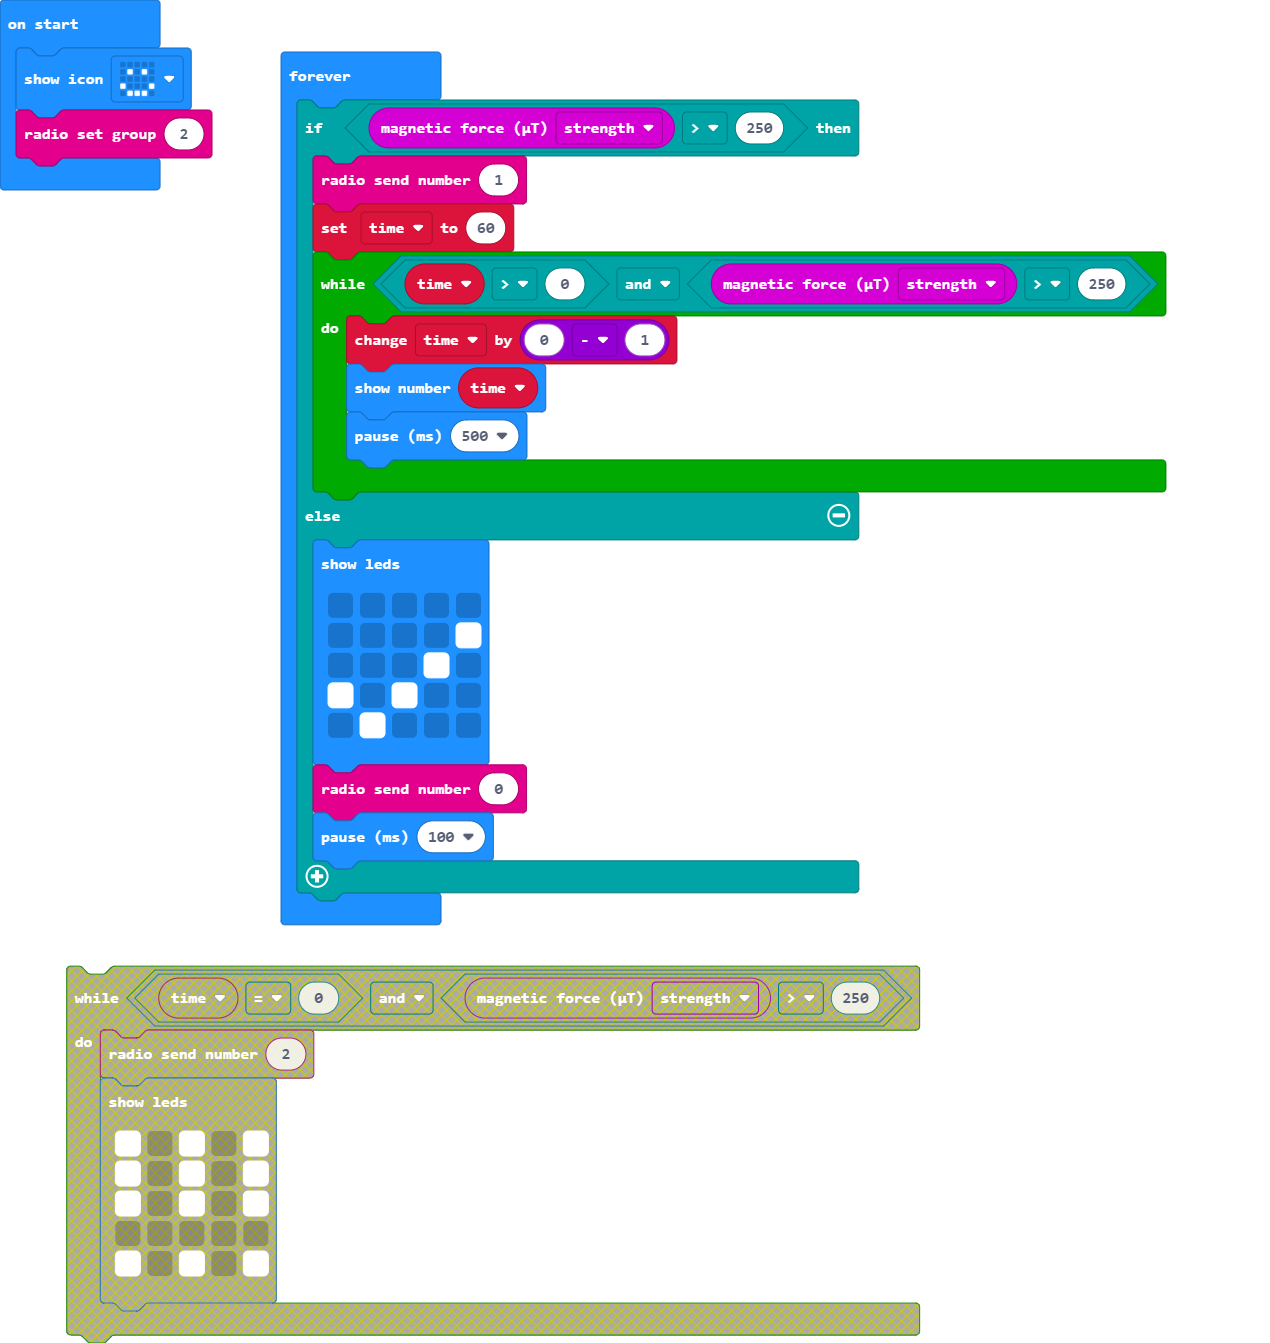
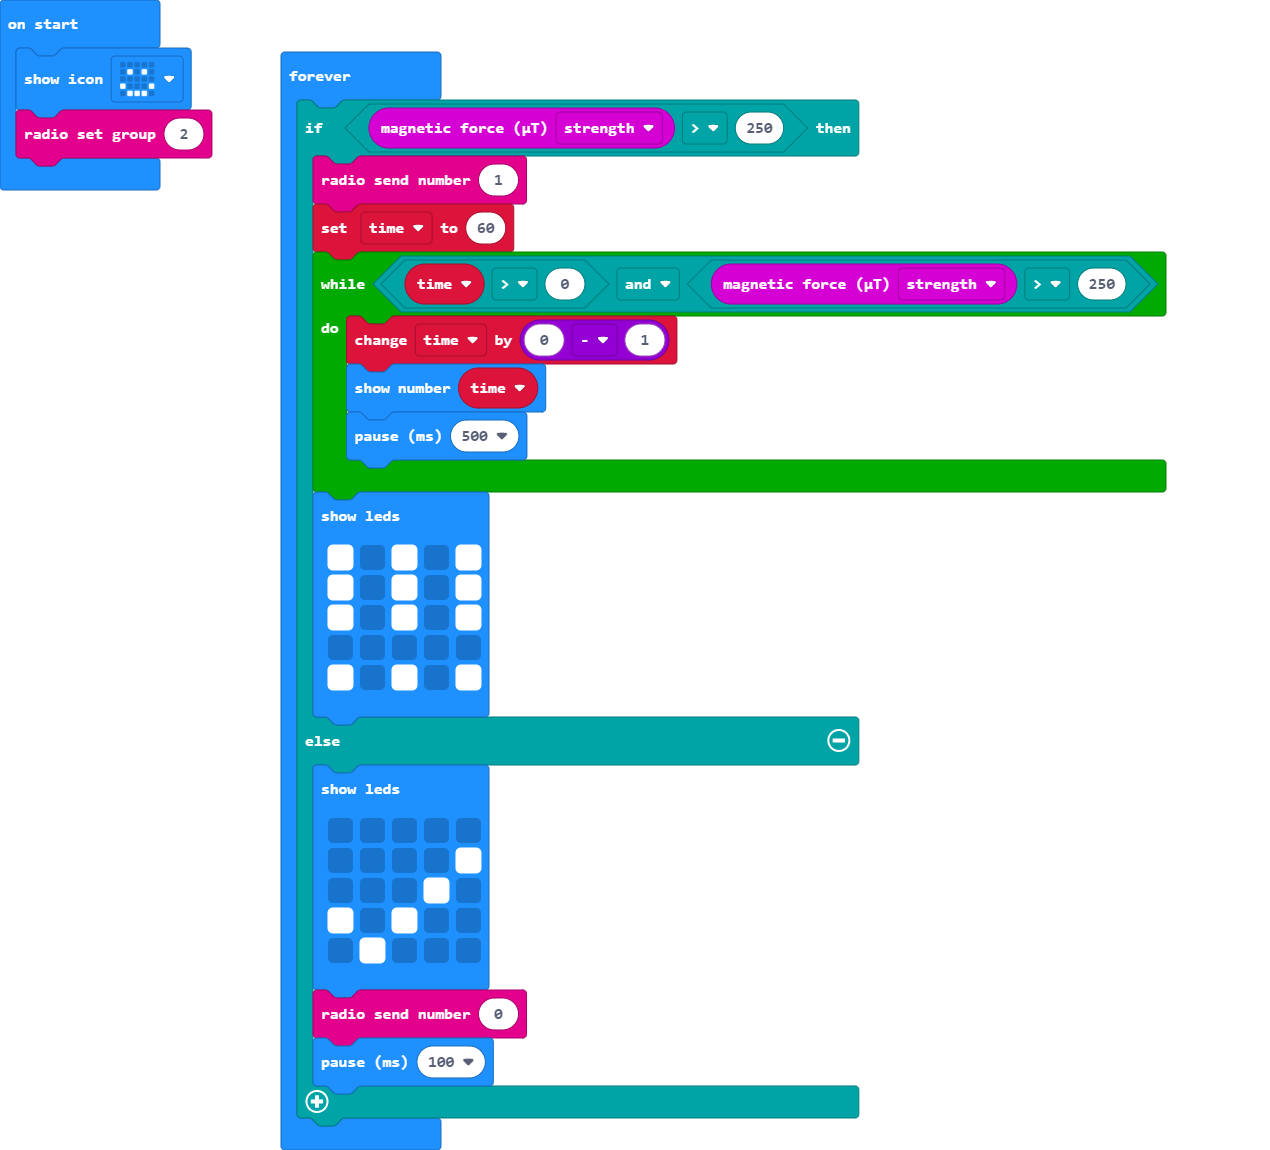
Update main.blocks, main.ts

diff --git a/main.ts b/main.ts
@@ -10,6 +10,13 @@ basic.forever(function () {
             basic.showNumber(time)
             basic.pause(500)
         }
+        basic.showLeds(`
+            # . # . #
+            # . # . #
+            # . # . #
+            . . . . .
+            # . # . #
+            `)
     } else {
         basic.showLeds(`
             . . . . .
